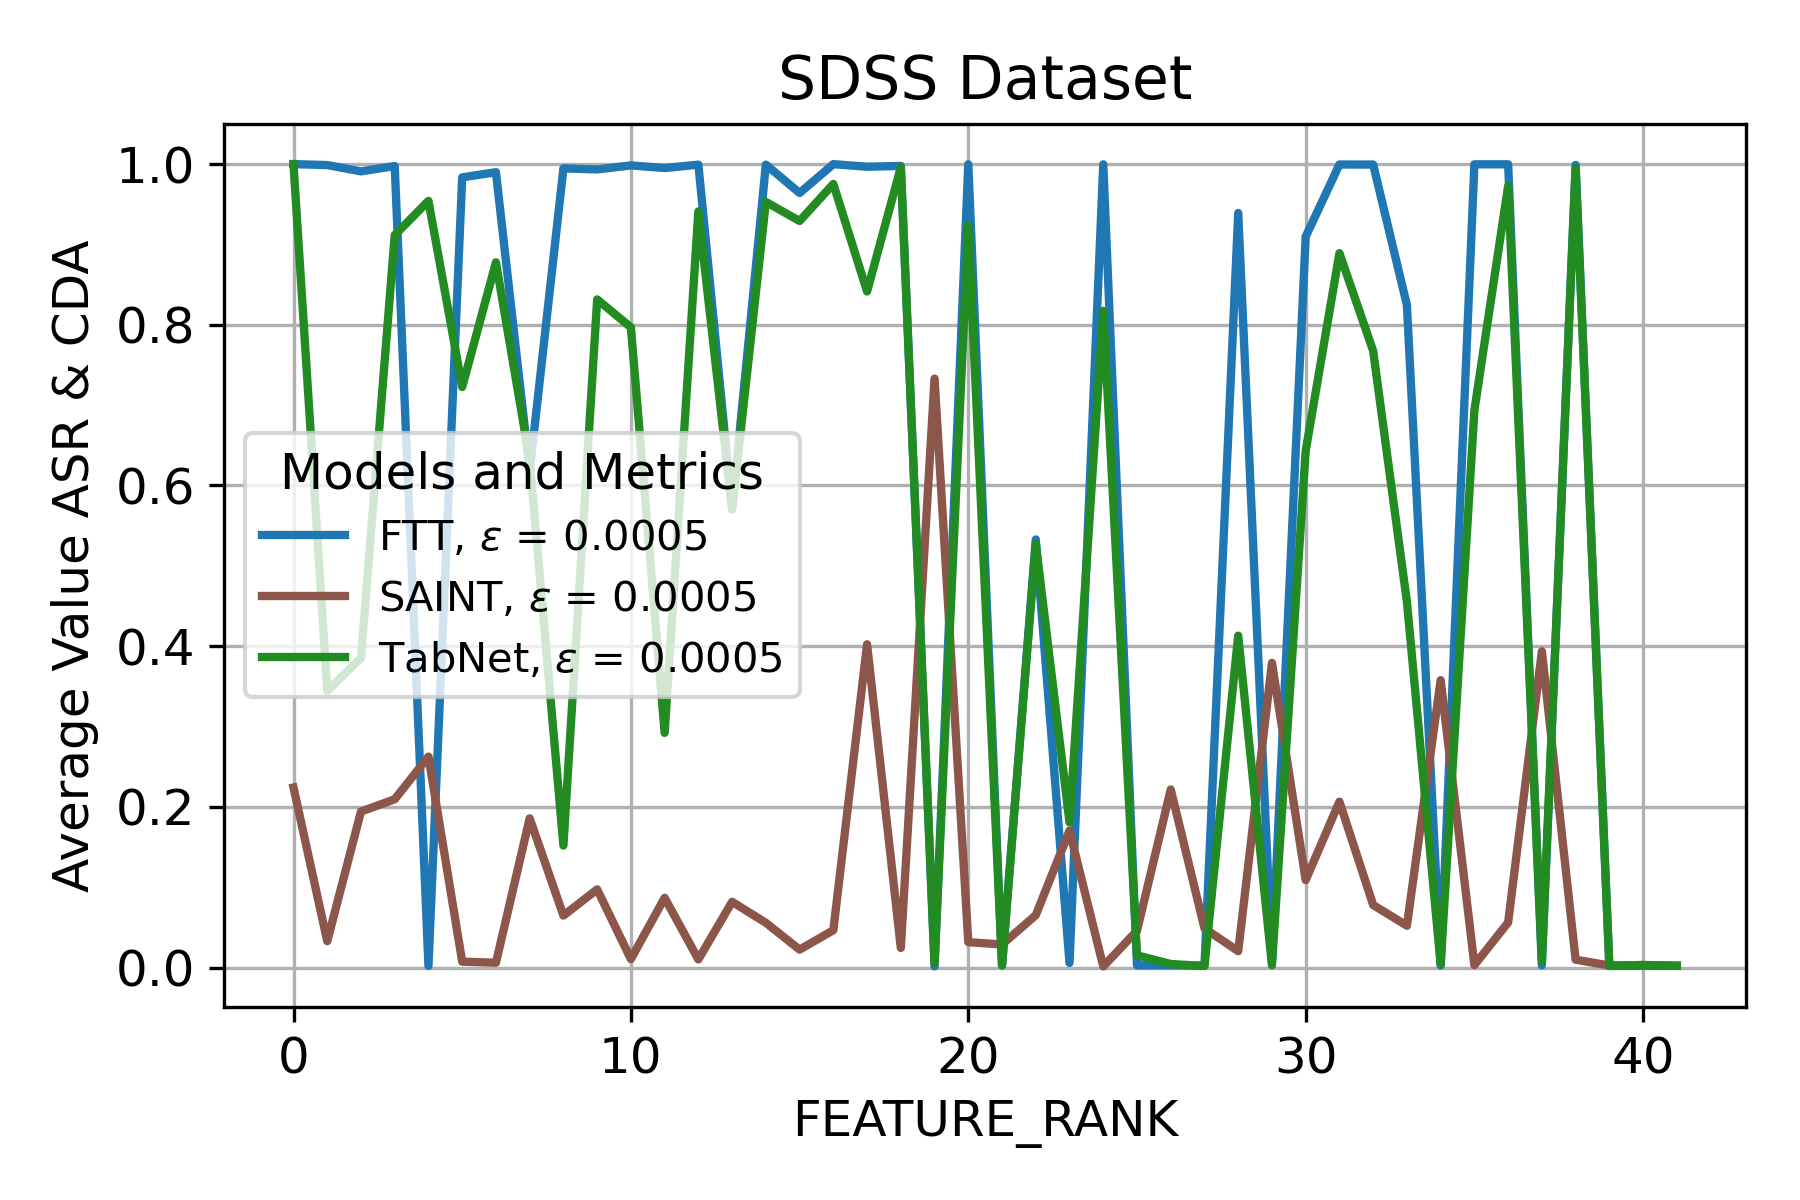
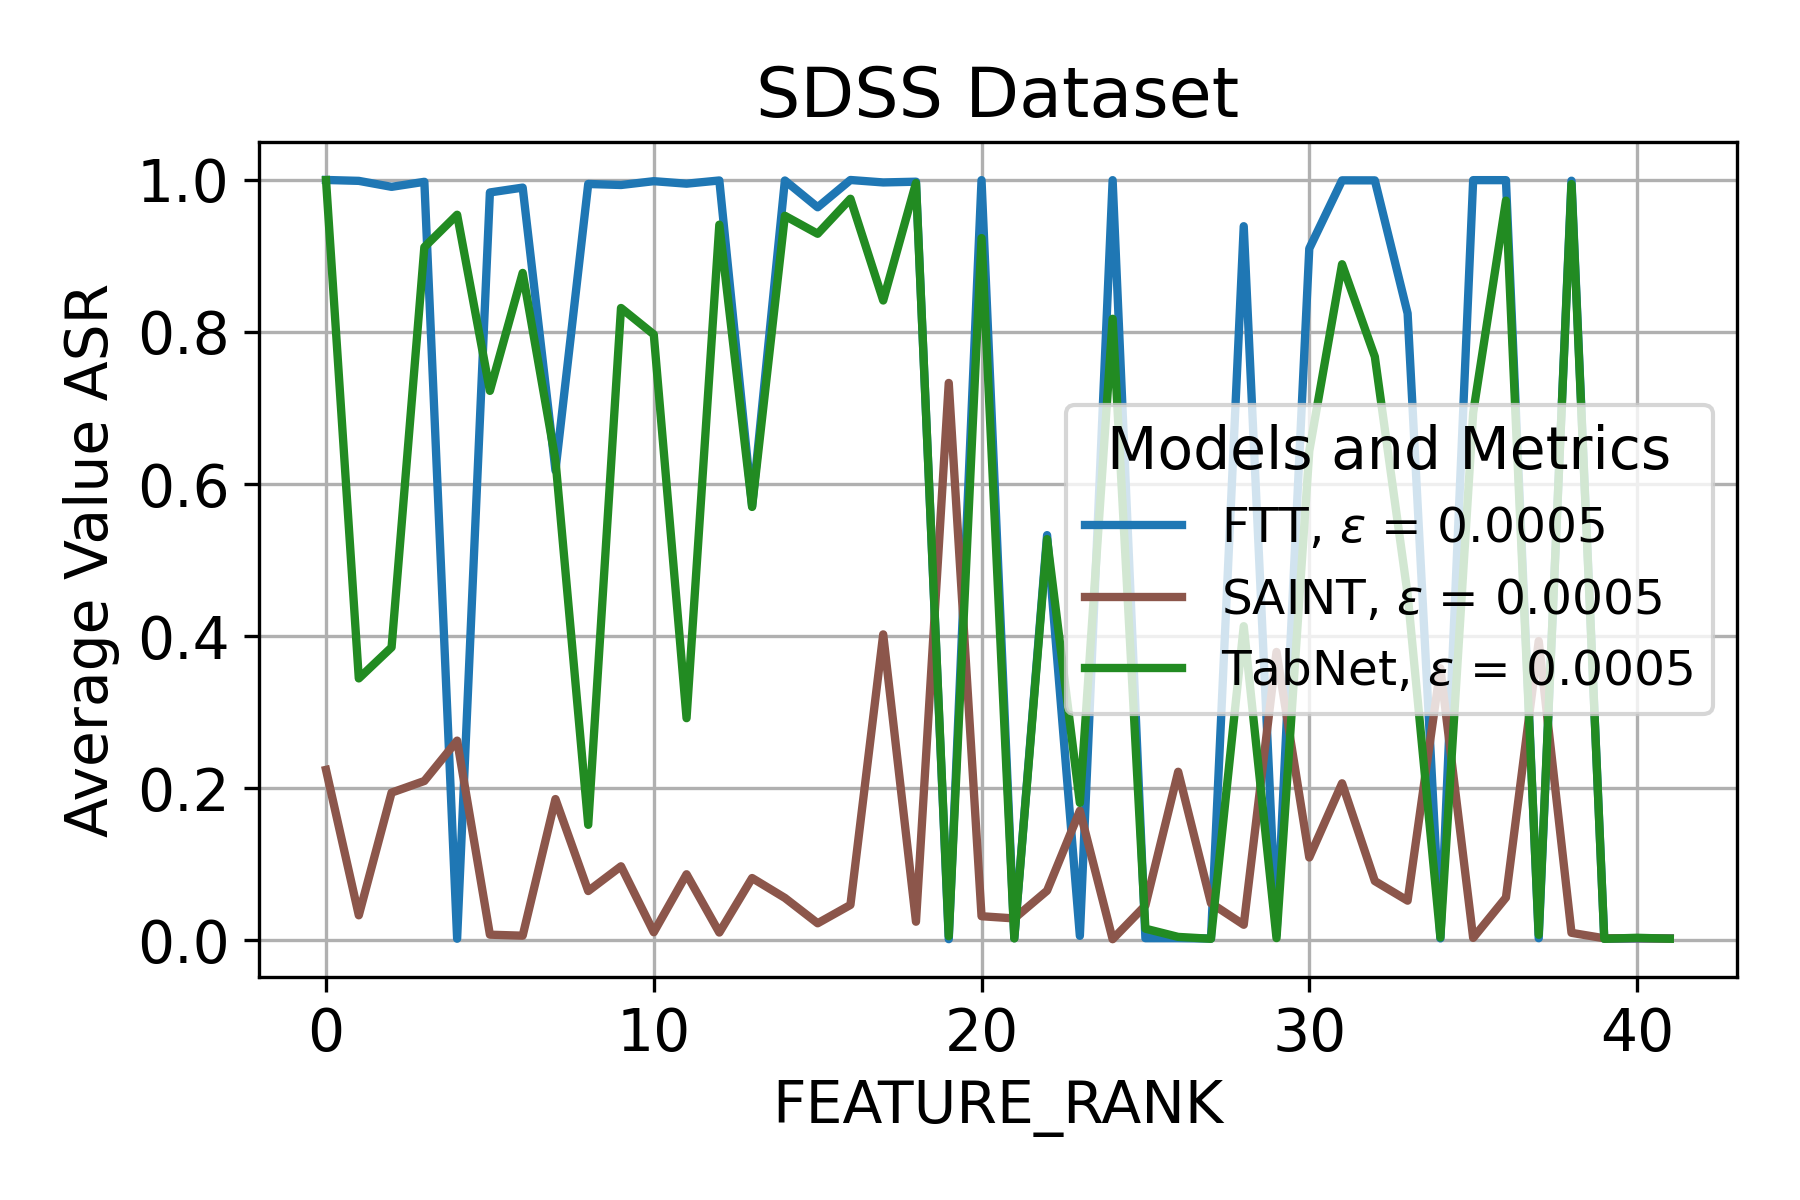
update trigger position plots

Changed region(s): [[0.0311, 0.0308, 0.9956, 0.9558]]

diff --git a/results_trigger_position/position_plot.py b/results_trigger_position/position_plot.py
@@ -24,7 +24,7 @@ models = grouped_data['MODEL'].unique()
 colors = plt.cm.get_cmap('tab10', len(models))
 
 # Adjusting font sizes
-plt.rcParams.update({'font.size': 12})  # Adjust this size based on your needs
+plt.rcParams.update({'font.size': 14})  # Adjust this size based on your needs
 
 # Plotting with specific color for TabNet
 for idx, model in enumerate(models):
@@ -46,7 +46,7 @@ for idx, model in enumerate(models):
 plt.title(f'{args.dataset} Dataset')
 
 plt.xlabel('FEATURE_RANK')
-plt.ylabel('Average Value ASR & CDA')
+plt.ylabel('Average Value ASR')
 plt.legend(title='Models and Metrics', fontsize='small', title_fontsize='medium')
 plt.grid(True)
 plt.tight_layout()  # Adjust layout to fit everything without clipping text
